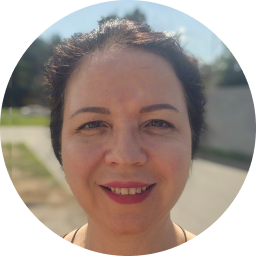
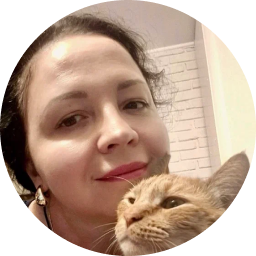
Deploying to dist from @ x3genius/meow-frontend@0794fddfea56627d47eb24760be317dcb593b6c5 🚀

diff --git a/index.html b/index.html
@@ -4,9 +4,9 @@
     <meta charset="UTF-8" />
     <link rel="icon" type="image/svg+xml" href="/favicon.svg" />
     <meta name="viewport" content="width=device-width, initial-scale=1.0" />
-    <title>Мяу-центр</title>
-    <script type="module" crossorigin src="/assets/index-BHmTJPqy.js"></script>
-    <link rel="stylesheet" crossorigin href="/assets/index-CG6aP1gU.css">
+    <title>Мяу-Центр</title>
+    <script type="module" crossorigin src="/assets/index-DnuRmIk3.js"></script>
+    <link rel="stylesheet" crossorigin href="/assets/index-pJWKUysa.css">
   </head>
   <body>
     <div id="root"></div>

diff --git a/assets/index-pJWKUysa.css b/assets/index-pJWKUysa.css
@@ -1,0 +1,1 @@
+@import "https://fonts.googleapis.com/css2?family=Roboto:wght@400;500;700&family=Rubik:wght@400;500;700&display=swap";*,:before,:after{box-sizing:border-box}:root{--color-text:#000;--color-text-muted:#b3b3b3;--color-inverse:#fff;--color-primary:#9fc847;--color-primary-hover:#769533;--color-bg:#fff;--color-bg-hover:#d2d2d2;--color-bg-accent:#fffadc;--color-gray-100:#d9d9d9;--color-gray-200:#b3b3b3;--color-gray-300:#959595;--font-headers:"Rubik", sans-serif;--font-body:"Roboto", sans-serif;--layout-padding:10%}html,body{font:20px/160% var(--font-body);letter-spacing:0;color:var(--color-text);background:var(--color-bg);font-synthesis:none;text-rendering:optimizelegibility;-webkit-font-smoothing:antialiased;-moz-osx-font-smoothing:grayscale;height:100%;margin:0;padding:0}body{min-width:320px;overflow:hidden auto}.container{width:100%;max-width:1160px;margin-inline:auto;padding-inline:20px}#root{flex-direction:column;min-height:100vh;display:flex}main.container{flex:1 0 auto;width:100%}::-webkit-scrollbar{background-color:#0000;width:6px;height:6px}::-webkit-scrollbar-thumb{background-color:#0003;background-clip:padding-box;border:1px solid #0000;border-radius:10px}::-webkit-scrollbar-thumb:hover{background-color:#0006}html{scrollbar-width:thin;scrollbar-color:#0003 transparent}._header_ooxqa_1{background:var(--color-bg-accent);width:100%;min-width:320px;margin-bottom:2rem}._headerContainer_ooxqa_15{justify-content:space-between;align-items:center;width:100%;height:5rem;display:flex}._headerContainer_ooxqa_15 a{color:var(--color-text);text-decoration:none}._logo_ooxqa_41{font-size:2rem;font-family:var(--font-headers);flex-shrink:0;align-items:center;gap:1rem;display:flex}._nav_ooxqa_59{gap:2rem;margin-top:.5rem;display:flex}._nav_ooxqa_59 a{color:var(--color-text);font-family:var(--font-headers);border-bottom:2px solid #0000;flex-shrink:0;padding-bottom:4px;text-decoration:none}._nav_ooxqa_59 a:hover{border-bottom-color:var(--color-text-muted)}._nav_ooxqa_59 a._active_ooxqa_97{border-bottom-color:var(--color-primary)}._loc_ooxqa_105{flex-shrink:0;align-items:center;gap:1.5rem;display:flex}._location_ooxqa_119{text-align:right;flex-shrink:0;font-size:.7rem;display:block}._icons_ooxqa_133{flex-shrink:0;gap:8px;display:flex}._burger_ooxqa_145{cursor:pointer;z-index:101;background:0 0;border:none;flex-direction:column;justify-content:space-between;width:30px;height:20px;padding:0;display:none}._burger_ooxqa_145 span{background-color:var(--color-text);border-radius:2px;width:100%;height:3px;transition:all .3s}._burgerActive_ooxqa_187 span:first-child{transform:translateY(8.5px)rotate(45deg)}._burgerActive_ooxqa_187 span:nth-child(2){opacity:0}._burgerActive_ooxqa_187 span:nth-child(3){transform:translateY(-8.5px)rotate(-45deg)}._menu_ooxqa_207{display:contents}@media (width<=1060px){._headerContainer_ooxqa_15{gap:1rem}._logo_ooxqa_41{gap:.5rem;font-size:1.5rem}._nav_ooxqa_59{gap:1rem}._loc_ooxqa_105{gap:.5rem}._location_ooxqa_119{flex-direction:column;line-height:1.2;display:flex}}@media (width<=900px){._headerContainer_ooxqa_15{flex-wrap:wrap;height:auto;padding-block:1rem}._logo_ooxqa_41{order:1;gap:1rem;font-size:2rem}._loc_ooxqa_105{order:2}._nav_ooxqa_59{order:3;justify-content:center;gap:2rem;width:100%;margin-top:1rem}._location_ooxqa_119{display:block}}@media (width<=630px){._logo_ooxqa_41{gap:.5rem;font-size:1.5rem}._nav_ooxqa_59{gap:1rem}._loc_ooxqa_105{gap:.5rem}._location_ooxqa_119{flex-direction:column;line-height:1.2;display:flex}}@media (width<=500px){._headerContainer_ooxqa_15{flex-flow:row;justify-content:space-between;align-items:center;height:5rem;padding-block:0;padding-inline:1rem;display:flex;position:relative}._logo_ooxqa_41{order:unset}._burger_ooxqa_145{display:flex}._menu_ooxqa_207{background:var(--color-bg-accent);z-index:100;flex-direction:column;justify-content:flex-start;align-items:center;gap:1.5rem;width:250px;height:100vh;padding:6rem 1.5rem 2rem;transition:right .4s cubic-bezier(.16,1,.3,1);display:flex;position:fixed;top:0;right:-280px;box-shadow:-5px 0 15px #0000001a}._menuOpen_ooxqa_447{right:0}._nav_ooxqa_59{flex-direction:column;order:1;align-items:center;gap:1.5rem;width:100%;max-width:none;margin-top:0;display:flex}._nav_ooxqa_59 a{text-align:center;white-space:normal;font-size:1.2rem}._loc_ooxqa_105{flex-direction:column;order:2;align-items:center;gap:1.2rem}._location_ooxqa_119{text-align:center;flex-direction:column;align-items:center;display:flex}}._footer_j6bey_1{background:var(--color-primary);width:100%;color:var(--color-inverse);margin-top:3rem;padding:2.5rem 0}._footerContainer_j6bey_17{justify-content:space-between;align-items:center;gap:1rem;width:100%;display:flex}._leftSide_j6bey_33{flex-direction:column;gap:.5rem;display:flex}._logo_j6bey_45{font-size:2rem;font-family:var(--font-headers);align-items:center;gap:1rem;display:flex}._copyright_j6bey_61{opacity:.8;font-size:.8rem}._rightSide_j6bey_71{align-items:center;gap:1.5rem;display:flex}._location_j6bey_83{text-align:right;font-size:.7rem;line-height:1.3;display:block}._icons_j6bey_97{gap:8px;display:flex}@media (width<=630px){._logo_j6bey_45{gap:.5rem;font-size:1.5rem}._rightSide_j6bey_71{gap:1rem}._location_j6bey_83{flex-direction:column;line-height:1.2;display:flex}}@media (width<=500px){._location_j6bey_83{display:none}._icons_j6bey_97{flex-direction:column;align-items:center}}._btn_nbxg9_1{font-family:var(--font-body);cursor:pointer;border:3px solid #0000;border-color:var(--color-primary);box-sizing:border-box;flex:none;justify-content:center;align-self:center;align-items:center;height:fit-content;min-height:min-content;font-weight:400;line-height:1.2;text-decoration:none;transition:all .2s ease-in-out;display:inline-flex}._primary_nbxg9_45{background-color:var(--color-primary);color:var(--color-inverse);border-color:var(--color-primary)}._primary_nbxg9_45:hover{background-color:var(--color-primary-hover);border-color:var(--color-primary-hover)}._inverted_nbxg9_65{background-color:var(--color-bg);color:var(--color-text);border-color:var(--color-primary)}._inverted_nbxg9_65:hover{background-color:var(--color-bg-hovers);border-color:var(--color-primary-hover)}._normal_nbxg9_85{border-radius:1.5rem;padding:.5rem;font-size:1rem}._large_nbxg9_95{border-radius:1.8rem;padding:.6rem 1.2rem;font-size:1.2rem}@media (width<=768px){._normal_nbxg9_85{border-radius:1.2rem;padding:.35rem;font-size:.7rem}._large_nbxg9_95{border-radius:1.8rem;padding:.4rem .8rem;font-size:.8rem}}._faqContainer_15yby_1{border-top:2px solid var(--color-primary);width:100%;margin-top:2rem}._faqWrapper_15yby_13{border-bottom:2px solid var(--color-primary);flex-direction:column;padding:.5rem 0;display:flex}._faqHeader_15yby_27{cursor:pointer;-webkit-user-select:none;user-select:none;justify-content:space-between;align-items:center;gap:1rem;padding:1.2rem .5rem;display:flex}._faqQuestion_15yby_47{font-family:var(--font-headers);text-align:left;font-size:1.2rem;font-weight:500}._faqButton_15yby_61{background-color:var(--color-primary);width:3rem;height:3rem;color:var(--color-inverse);cursor:pointer;border:none;border-radius:50%;flex-shrink:0;justify-content:center;align-items:center;transition:background-color .25s;display:flex}._faqHeader_15yby_27:hover ._faqButton_15yby_61:not(._faqActive_15yby_91){background-color:var(--color-primary-hover)}._faqButton_15yby_61._faqActive_15yby_91{background-color:var(--color-gray-200)}._faqButton_15yby_61._faqActive_15yby_91:hover{background-color:var(--color-gray-300)}._faqIcon_15yby_115{width:2rem;height:2rem;transition:transform .25s}._faqButtonOpen_15yby_127{transform:rotate(45deg)}._faqCollapse_15yby_135{opacity:0;max-height:0;transition:max-height .3s cubic-bezier(0,1,0,1),opacity .2s;overflow:hidden}._faqCollapseOpen_15yby_153{opacity:1;max-height:1000px;transition:max-height .3s cubic-bezier(1,0,1,0),opacity .25s 50ms}._faqAnswer_15yby_169{color:var(--color-text);text-align:left;margin:0;padding:0 .5rem .8rem;font-size:.9rem;line-height:150%}@media (width<=768px){._faqQuestion_15yby_47{font-size:.6rem}._faqButton_15yby_61{width:28px;height:28px}._faqIcon_15yby_115{width:14px;height:14px}._faqAnswer_15yby_169{font-size:.6rem}._faqHeader_15yby_27{gap:1rem;padding:0 .5rem}}._container_zov3x_1{box-sizing:border-box;width:100%;margin:0 auto;overflow-x:hidden}._carouselContainer_zov3x_15{display:none}._desktopWrapper_zov3x_23{display:block}._gridMode_zov3x_31{grid-template-columns:repeat(4,minmax(0,1fr));gap:1.5rem;padding:0 1rem;display:grid}._pagination_zov3x_45{justify-content:center;align-items:center;gap:.5rem;margin:1rem 0;display:flex}._pageBtn_zov3x_61,._arrowBtn_zov3x_63{background-color:var(--color-bg);color:var(--color-text-muted);cursor:pointer;border:none;border-radius:50%;justify-content:center;align-items:center;min-width:2.5rem;height:2.5rem;font-size:1rem;display:flex}._activePage_zov3x_91{color:var(--color-text);-webkit-text-decoration:underline 2px solid var(--color-primary);text-decoration:underline 2px solid var(--color-primary);text-underline-offset:.5rem}._infoMessage_zov3x_103{text-align:center;margin:2rem 0}@media (width<=768px){._desktopWrapper_zov3x_23{display:none}._carouselContainer_zov3x_15{width:100%;height:auto;margin:.5rem 0;display:block;position:relative;overflow:visible}._slide_zov3x_141{box-sizing:border-box;pointer-events:none;opacity:0;z-index:1;width:45.45%;transition:transform .4s cubic-bezier(.25,1,.5,1),opacity .4s,z-index .4s step-end;position:absolute;top:0;left:27.27%}._slide_zov3x_141._active_zov3x_91{opacity:1;z-index:3;pointer-events:auto;position:relative;transform:translate(0)scale(1)}._slide_zov3x_141._prev_zov3x_187{opacity:.4;z-index:2;pointer-events:auto;cursor:pointer;position:absolute;transform:translate(-60%)scale(.85)}._slide_zov3x_141._next_zov3x_205{opacity:.4;z-index:2;pointer-events:auto;cursor:pointer;position:absolute;transform:translate(60%)scale(.85)}._slide_zov3x_141._hidden_zov3x_223{opacity:0;z-index:1;position:absolute;transform:translate(0)scale(.7)}}._card_1rydq_1{flex-direction:column;justify-content:space-between;gap:.5rem;width:100%;min-width:100px;max-width:360px;margin:0;padding:0;display:flex}._cardLink_1rydq_25{color:inherit;text-decoration:none;display:block}._centerText_1rydq_37{text-align:center}._imageWrapper_1rydq_45{background-color:var(--color-gray-100);aspect-ratio:3/4;border-radius:1rem;width:100%;min-width:100px;max-width:360px;margin:0;padding:0;overflow:hidden}._imageWrapper_1rydq_45 img{object-fit:cover;width:100%;height:100%;display:block}._infoWrapper_1rydq_83{flex-grow:1;margin:0;padding:0}._name_1rydq_95{font-family:var(--font-headers);margin:0;padding:0;font-size:1.2rem;font-weight:500}._specifications_1rydq_111{color:var(--color-text-muted);margin:0;padding:0;font-size:.8rem}._description_1rydq_125{-webkit-line-clamp:3;line-clamp:3;-webkit-box-orient:vertical;margin:0;padding:0;font-size:.8rem;display:-webkit-box;overflow:hidden}@media (width<=768px){._name_1rydq_95{font-size:1rem}._specifications_1rydq_111,._description_1rydq_125{font-size:.8rem}}@media (width<=560px){._name_1rydq_95{font-size:.8rem}._specifications_1rydq_111,._description_1rydq_125{font-size:.7rem}}._wrapper_70ntr_1{width:100%;height:100%;padding:.5rem;position:relative}._wrapper_70ntr_1 div,._wrapper_70ntr_1 div>div,._wrapper_70ntr_1 iframe{border-radius:1.5rem;border:none!important;width:100%!important;height:100%!important;margin:0!important;padding:0!important}._centerText_9qzhz_1{text-align:center;max-width:1160px;margin-inline:auto}._mutedText_9qzhz_13{text-align:center;max-width:1160px;color:var(--color-text-muted);margin-inline:auto}._centerBtnWrapper_9qzhz_27{justify-content:center;margin-top:1rem;display:flex}._heroSection_9qzhz_43{gap:2rem;padding-top:1rem;padding-bottom:2rem}._heroContent_9qzhz_55{justify-content:space-between;align-items:center;gap:0;display:flex;position:relative}._heroContent_9qzhz_55 h1{text-align:left}._heroContent_9qzhz_55 p{font-size:1.2rem}._heroContentWrapper_9qzhz_87{z-index:3;flex:1.6;max-width:700px;position:relative}._heroImageWrapper_9qzhz_101{flex:1;height:430px;position:relative}._heroCatImage_9qzhz_113{object-fit:contain;pointer-events:none;z-index:1;width:auto;height:110%;position:absolute;bottom:0;right:0}._heroTags_9qzhz_135{flex-wrap:wrap;justify-content:center;gap:.5rem;margin-top:1.5rem;display:flex}@media (width<=768px){._heroContent_9qzhz_55{text-align:center;flex-direction:column;gap:2rem}._heroContentWrapper_9qzhz_87{flex:none}._heroImageWrapper_9qzhz_101{flex:none;width:100%;height:auto}._heroCatImage_9qzhz_113{width:100%;max-width:320px;height:auto;margin-inline:auto;position:static}._heroContent_9qzhz_55 h1{text-align:center}._heroContent_9qzhz_55 p{font-size:.8rem}}._aboutSection_9qzhz_213{padding-block:2rem;position:relative}._pawHomeAbout_9qzhz_223{pointer-events:none;z-index:2;width:99vw;margin-left:0;margin-right:0;padding-left:0;padding-right:0;position:absolute;bottom:-100%;left:50%;transform:translate(-50%)}._helpSection_9qzhz_255{padding-block:2rem}._helpGrid_9qzhz_263{grid-template-columns:repeat(auto-fit,minmax(300px,1fr));gap:2rem;margin-top:2rem;display:grid}._helpCard_9qzhz_277{background-color:var(--color-bg-accent);text-align:left;border-radius:2rem;flex-direction:column;justify-content:space-between;align-items:center;padding:1.2rem;display:flex}._helpCardTitle_9qzhz_299{font-family:var(--font-headers);margin:0;font-size:1.2rem;font-weight:500}@media (width<=768px){._helpCardTitle_9qzhz_299{font-size:.8rem}._helpGrid_9qzhz_263{gap:1rem}}._petsSection_9qzhz_337{padding-block:2rem}._teamSection_9qzhz_349{padding-block:2rem;position:relative}._pawHomeTeam_9qzhz_359{pointer-events:none;z-index:-1;width:99vw;margin-left:0;margin-right:0;padding-left:0;padding-right:0;position:absolute;top:-30%;left:50%;transform:translate(-50%)}._teamGrid_9qzhz_387{grid-template-columns:repeat(3,1fr);justify-content:center;align-items:start;gap:2rem;margin-top:2rem;margin-bottom:0;display:grid}._teamCard_9qzhz_407:first-child{grid-column:span 3}._teamCard_9qzhz_407:first-child ._avatarWrapper_9qzhz_415{width:12rem;height:12rem}._teamCard_9qzhz_407{text-align:center;flex-direction:column;align-items:center;width:100%;display:flex}._avatarWrapper_9qzhz_415{width:8rem;height:8rem;margin-bottom:1rem}._avatar_9qzhz_415{object-fit:cover;border-radius:50%;width:100%;height:100%}._avatarName_9qzhz_467{text-align:center;font-family:var(--font-headers);word-break:break-word;margin:0;font-size:1.2rem;font-weight:500}._avatarTitle_9qzhz_485{text-align:center;color:var(--color-text-muted);margin:0;font-size:.8rem}@media (width<=768px){._teamGrid_9qzhz_387{grid-template-columns:repeat(2,1fr);gap:1.5rem}._teamCard_9qzhz_407:first-child{grid-column:span 2}._avatarWrapper_9qzhz_415{width:5.5rem;height:5.5rem;margin-bottom:.8rem}._teamCard_9qzhz_407:first-child ._avatarWrapper_9qzhz_415{width:8rem;height:8rem}._avatarName_9qzhz_467{font-size:.8rem}._avatarTitle_9qzhz_485{font-size:.5rem}}._faqSection_9qzhz_563{padding-block:2rem}._docsSection_9qzhz_575{padding-block:2rem;position:relative}._pawHomeDocs_9qzhz_585{pointer-events:none;z-index:-1;width:99vw;margin-left:0;margin-right:0;padding-left:0;padding-right:0;position:absolute;bottom:0;left:50%;transform:translate(-50%)}._docsList_9qzhz_613{flex-wrap:wrap;justify-content:center;gap:1.5rem 2.5rem;margin-top:2rem;display:flex}._docItem_9qzhz_629{color:var(--color-text);align-items:center;gap:.5rem;text-decoration:none;display:flex}@media (width<=768px){._docsList_9qzhz_613{gap:1rem 2rem}._docItem_9qzhz_629{gap:.35rem;font-size:.7rem}}._docItem_9qzhz_629 svg{flex-shrink:0}._qrWrapper_9qzhz_673{flex-direction:column;justify-content:center;align-items:center;margin-top:1rem;padding:60px;display:flex}._qrImage_9qzhz_691{object-fit:contain;background-color:var(--color-inverse);width:300px;max-width:100%;height:auto;padding:0;display:block}._contactsSection_9qzhz_715{padding-block:2rem}._contactsContent_9qzhz_723{grid-template-columns:6fr 4fr;align-items:center;gap:2rem;display:grid}._contactsInfo_9qzhz_737{background-color:var(--color-bg-accent);text-align:left;border-radius:2rem;flex-direction:column;justify-content:space-between;padding:1.2rem;display:flex}._contactsInfo_9qzhz_737 ul{gap:1rem;margin-bottom:1.5rem;padding:0;list-style:none;display:flex}._contactsTitle_9qzhz_773{font-family:var(--font-headers);margin:0;font-size:1.2rem;font-weight:500}._mapBlock_9qzhz_787{background-color:var(--color-gray-100);border-radius:2rem;width:100%;height:100%;padding:0}@media (width<=768px){._contactsContent_9qzhz_723{grid-template-columns:1fr}._mapBlock_9qzhz_787{height:300px}._contactsTitle_9qzhz_773{font-size:.7rem}}._container_1re44_1{font-family:var(--font-body);display:inline-block;position:relative}._trigger_1re44_13{cursor:pointer;background-color:var(--color-bg);width:100%;color:var(--color-text);border:3px solid var(--color-primary);border-radius:1.5rem;justify-content:space-between;align-items:center;padding:.5rem 1.2rem;font-size:1rem;transition:all .2s ease-in-out;display:inline-flex}._trigger_1re44_13:hover{background-color:var(--color-bg-hovers);border-color:var(--color-primary-hover)}._icon_1re44_55{width:1.2rem;height:1.2rem;color:var(--color-primary);margin-left:.8rem;transition:transform .3s}._iconOpen_1re44_71{transform:rotate(180deg)}._menu_1re44_79{z-index:10;background-color:var(--color-bg);border:3px solid var(--color-primary);border-radius:1rem;width:max-content;min-width:100%;max-width:90vw;max-height:250px;margin:0;padding:.5rem 0;list-style:none;position:absolute;top:calc(100% + .3rem);left:0;overflow:hidden auto;box-shadow:0 4px 12px #0000001a}._menuItem_1re44_125{cursor:pointer;color:var(--color-text);white-space:nowrap;padding:.6rem 1.2rem;transition:background-color .2s}._menuItem_1re44_125:hover{background-color:var(--color-bg-hovers)}._menuItemActive_1re44_149{color:var(--color-primary)}._textMain_1re44_157{font-weight:500}@media (width<=768px){._trigger_1re44_13,._menuItem_1re44_125{padding:.3rem .6rem;font-size:.8rem}}._buttonWrapper_15wnt_1{font-family:var(--font-body);cursor:pointer;background-color:var(--color-bg);color:var(--color-text);border:3px solid var(--color-primary);border-radius:1.5rem;align-items:center;gap:.7rem;padding:.3rem .8rem;font-size:1rem;font-weight:400;transition:all .2s ease-in-out;display:inline-flex}._buttonWrapper_15wnt_1:hover{border-color:var(--color-primary-hover)}._hiddenInput_15wnt_45{opacity:0;width:0;height:0;position:absolute}._box_15wnt_59{border:2px solid var(--color-primary);background-color:#0000;border-radius:.4rem;flex-shrink:0;justify-content:center;align-items:center;width:1.4rem;height:1.4rem;transition:all .2s ease-in-out;display:flex}._checkmark_15wnt_85{width:1rem;height:1rem;color:var(--color-primary);opacity:0;transition:all .2s ease-in-out;transform:scale(.5)}._hiddenInput_15wnt_45:checked+._box_15wnt_59 ._checkmark_15wnt_85{opacity:1;transform:scale(1)}._label_15wnt_113{-webkit-user-select:none;user-select:none;width:max-content;max-width:100%}@media (width<=768px){._label_15wnt_113{font-size:.8rem}}._container_bclwv_1{max-width:1160px;margin:0 auto;padding:0 1rem;position:relative}._filtersWrapper_bclwv_15{flex-wrap:wrap;align-items:center;gap:.5rem 1rem;margin-bottom:2rem;display:flex}._cardsPage_bclwv_31{grid-template-columns:repeat(3,minmax(100px,1fr));justify-content:start;gap:2rem;display:grid}@media (width<=768px){._cardsPage_bclwv_31{grid-template-columns:repeat(2,minmax(100px,1fr));gap:1rem}}@media (width<=400px){._cardsPage_bclwv_31{grid-template-columns:repeat(1,minmax(100px,1fr));gap:1rem}._filtersWrapper_bclwv_15{gap:.5rem}}._pagination_bclwv_81{flex-wrap:wrap;justify-content:center;align-items:center;gap:.5rem;margin:3rem 0;display:flex}._pageBtn_bclwv_99,._arrowBtn_bclwv_101{background-color:var(--color-bg);color:var(--color-text-muted);cursor:pointer;border:none;border-radius:50%;justify-content:center;align-items:center;min-width:2.5rem;height:2.5rem;padding:0 .5rem;font-size:1rem;transition:all .2s;display:flex}._pageBtn_bclwv_99:hover,._arrowBtn_bclwv_101:hover{background-color:var(--color-gray-100)}._activePage_bclwv_143{color:var(--color-text);-webkit-text-decoration:underline 2px solid var(--color-primary);text-decoration:underline 2px solid var(--color-primary);text-underline-offset:.5rem}._dots_bclwv_155{color:var(--color-text-muted);letter-spacing:.1rem;padding:0 .25rem}@media (width<=480px){._pagination_bclwv_81{gap:.1rem}._pageBtn_bclwv_99,._arrowBtn_bclwv_101{min-width:2rem;height:2rem;padding:0 .2rem;font-size:.8rem}._dots_bclwv_155{letter-spacing:.0125rem;padding:0}}._infoMessage_bclwv_205{text-align:center}._pawPets_bclwv_213{pointer-events:none;z-index:-1;width:99vw;margin-left:0;margin-right:0;padding-left:0;padding-right:0;position:absolute;bottom:-12%;left:50%;transform:translate(-50%)}@media (width<=768px){._pawPets_bclwv_213{bottom:-8%}}._centerText_1jzpz_1{text-align:center;max-width:1160px;margin-inline:auto}._mutedText_1jzpz_13{text-align:center;max-width:1160px;color:var(--color-text-muted);margin-inline:auto}._faqSection_1jzpz_27{gap:.5rem;padding-block:2rem;position:relative}._heroSection_1jzpz_43{padding-bottom:2rem}._heroTags_1jzpz_51{flex-wrap:wrap;justify-content:center;gap:.5rem;display:flex}._helpSection_1jzpz_69{padding:2rem 0;position:relative}._helpDonate_1jzpz_79{text-align:center;font-family:var(--font-headers);-webkit-text-decoration:underline 2px solid var(--color-primary);text-decoration:underline 2px solid var(--color-primary);font-weight:500}._qrWrapper_1jzpz_103{flex-direction:column;justify-content:center;align-items:center;margin-top:1rem;padding:0 2rem;display:flex}._qrImage_1jzpz_121{object-fit:contain;background-color:var(--color-inverse);width:400px;max-width:100%;height:auto;padding:0;display:block}._pawHelpHelp_1jzpz_143{pointer-events:none;z-index:0;width:99vw;margin-left:0;margin-right:0;padding-left:0;padding-right:0;position:absolute;top:40%;left:50%;transform:translate(-50%)}._pawHelpOwner_1jzpz_171{pointer-events:none;z-index:-1;width:99vw;margin-left:0;margin-right:0;padding-left:0;padding-right:0;position:absolute;bottom:-50%;left:50%;transform:translate(-50%)}@media (width<=768px){._pawHelpOwner_1jzpz_171{bottom:-100%}}._sliderContainer_1spsk_1{flex-direction:column;gap:1rem;width:100%;min-width:0;max-width:100%;display:flex}._emptyMedia_1spsk_19{aspect-ratio:4/3;background-color:var(--color-gray-100);width:100%;color:var(--color-gray-300);border-radius:2rem;justify-content:center;align-items:center;display:flex}._mainImageWrapper_1spsk_41{aspect-ratio:4/3;background-color:var(--color-gray-100);cursor:zoom-in;border-radius:2rem;width:100%;position:relative;overflow:hidden}._mainImage_1spsk_41{object-fit:contain;width:100%;height:100%;transition:opacity .3s ease-in-out;position:absolute;top:0;left:0}._activeImage_1spsk_81{opacity:1;z-index:1}._hiddenImage_1spsk_91{opacity:0;z-index:0;pointer-events:none}._navBtn_1spsk_103{background-color:var(--color-primary);cursor:pointer;z-index:2;border:none;border-radius:50%;justify-content:center;align-items:center;width:3rem;height:3rem;transition:background-color .2s;display:flex;position:absolute;top:50%;transform:translateY(-50%)}._navBtn_1spsk_103:hover{background-color:var(--color-primary-hover)}._prevBtn_1spsk_145{left:1rem}._nextBtn_1spsk_151{right:1rem}._thumbnailsContainer_1spsk_159{scrollbar-width:thin;gap:.5rem;width:100%;min-width:0;padding-bottom:.5rem;display:flex;overflow-x:auto}._thumbnail_1spsk_159{object-fit:cover;cursor:pointer;border:3px solid #0000;border-radius:.5rem;flex-shrink:0;width:70px;height:70px;transition:border-color .2s}._activeThumbnail_1spsk_201{border-color:var(--color-primary)}._modalOverlay_1spsk_209{z-index:1000;background-color:#000000d9;justify-content:center;align-items:center;padding:1rem;display:flex;position:fixed;inset:0}._modalContent_1spsk_231{justify-content:center;align-items:center;width:90vw;height:85vh;display:flex;position:relative}._modalImage_1spsk_249{object-fit:contain;border-radius:1rem;max-width:100%;max-height:100%;transition:opacity .3s ease-in-out;position:absolute;top:50%;left:50%;transform:translate(-50%,-50%)}._modalImageActive_1spsk_273{opacity:1;z-index:1}._modalImageHidden_1spsk_283{opacity:0;z-index:0;pointer-events:none}._closeBtn_1spsk_295{color:var(--color-inverse);cursor:pointer;z-index:10;background:0 0;border:none;padding:0;font-size:2rem;line-height:1;position:absolute;top:-2.5rem;right:0}._modalPrevBtn_1spsk_323{left:-1rem}._modalNextBtn_1spsk_329{right:-1rem}@media (width<=768px){._navBtn_1spsk_103{width:2.2rem;height:2.2rem}._navBtn_1spsk_103 svg{width:18px;height:18px}._prevBtn_1spsk_145{left:.5rem}._nextBtn_1spsk_151{right:.5rem}._modalPrevBtn_1spsk_323{left:.5rem}._modalNextBtn_1spsk_329{right:.5rem}._closeBtn_1spsk_295{top:-2.2rem;right:.5rem}}@media (width<=480px){._navBtn_1spsk_103{width:1.8rem;height:1.8rem}._navBtn_1spsk_103 svg{width:14px;height:14px}._prevBtn_1spsk_145{left:.25rem}._nextBtn_1spsk_151{right:.25rem}._modalPrevBtn_1spsk_323{left:.25rem}._modalNextBtn_1spsk_329{right:.25rem}._thumbnail_1spsk_159{width:50px;height:50px}._emptyMedia_1spsk_19,._mainImageWrapper_1spsk_41{border-radius:1rem}}@media (width<=380px){._navBtn_1spsk_103{width:1.5rem;height:1.5rem}._navBtn_1spsk_103 svg{width:12px;height:12px}._thumbnail_1spsk_159{width:40px;height:40px}}._petPage_g1o8f_1{max-width:1160px;margin:0 auto;padding:0 1rem;position:relative}._petContainer_g1o8f_17{display:flow-root}._petMedia_g1o8f_25{float:left;width:55%;max-width:100%;margin-bottom:1rem;margin-right:2rem}._petInfo_g1o8f_41{text-align:left;padding:0;display:block}._petInfo_g1o8f_41>*{margin-bottom:.75rem}._petInfo_g1o8f_41>:last-child{margin-bottom:0}._petName_g1o8f_69{text-align:left;margin:0;font-size:2.5rem}._specifications_g1o8f_81{color:var(--color-text-muted);margin:0;font-size:1rem;line-height:normal}._description_g1o8f_95{white-space:pre-wrap;margin:0;font-size:1rem;line-height:normal}._petButtons_g1o8f_109{clear:both;flex-wrap:wrap;justify-content:center;gap:.5rem;margin-top:1.5rem;display:flex}._pawPet_g1o8f_127{pointer-events:none;z-index:0;width:99vw;margin-left:0;margin-right:0;padding-left:0;padding-right:0;position:absolute;top:50%;left:50%;transform:translate(-50%)}@media (width<=768px){._petMedia_g1o8f_25{float:none;width:100%;margin-right:0}._petName_g1o8f_69,._specifications_g1o8f_81{text-align:center}._petInfo_g1o8f_41>*{margin-bottom:.5rem}}@media (width<=500px){._petName_g1o8f_69{font-size:1rem!important}._specifications_g1o8f_81,._description_g1o8f_95{font-size:.8rem!important}._pawPet_g1o8f_127{bottom:-40%}}h1,h2,h3,h4,h5,h6{font-family:var(--font-headers);text-align:center;margin-inline:auto;font-weight:500;line-height:110%}p{overflow-wrap:break-word;word-break:break-word}a{cursor:pointer;color:var(--color-text);-webkit-text-decoration:underline solid 2px var(--color-primary);text-decoration:underline solid 2px var(--color-primary)}@media (width<=768px){p{font-size:.7rem}h1{font-size:1rem}h3{font-size:.8rem}}button:disabled{border-color:red}